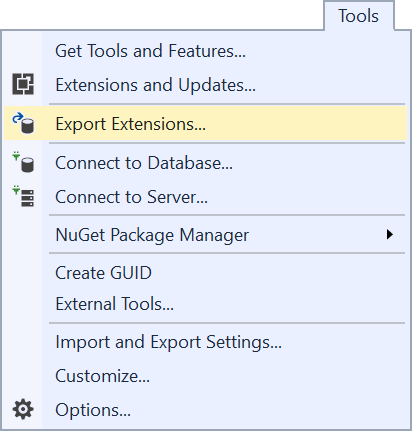
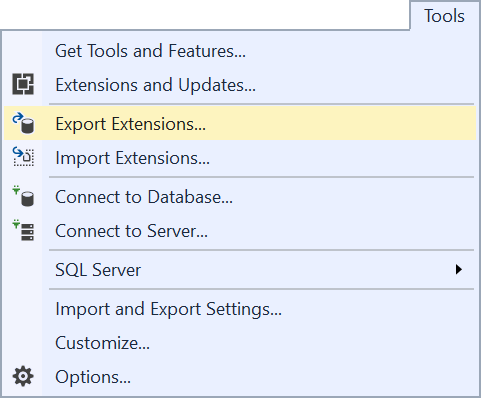
Updated readme [skip ci]

diff --git a/readme.md b/readme.md
@@ -1,10 +1,12 @@
-# Extension Pack Tools for Visual Studio
+# Import/Export Visual Studio extensions
 
 [![Build status](https://ci.appveyor.com/api/projects/status/hc78u7wnqya38mur?svg=true)](https://ci.appveyor.com/project/madskristensen/extensionpacktools)
 
 [Download extension](http://vsixgallery.com/extension/e83d71b8-8bfc-4e06-b145-b0388910c016/)
 
-Exports your Visual Studio extensions into a JSON file.
+This extension allows you to export a list of extensions and importing them back into any instance of VS 2017.
+
+## Export
 
 ![Tools menu](art/menu_tools.png)
 
@@ -32,3 +34,15 @@ The output is a JSON file with an .vsext file extension looking like this:
   ]
 }
 ```
+
+## Import
+Clicking the import button prompts you to select a .vsext file. Doing that will present you with this dialog that lists all the extensions found in the .vsext file.
+
+![Import](art/import.png)
+
+Before showing the list it will verify that the extensions exist on the Marketplace and that can take a few seconds.
+
+Clicking the **Select** button in the dialog will start the VSIX Installer in a separate process and you can follow the normal install flow from there.
+
+## License
+[Apache 2.0](LICENSE)
